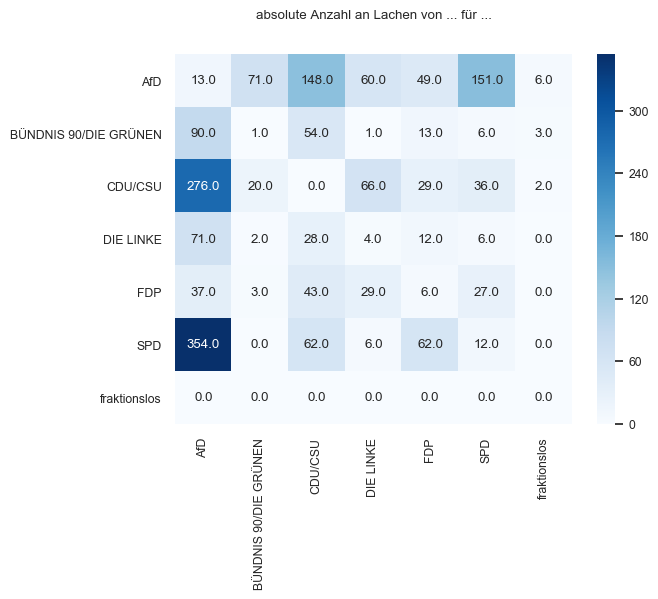
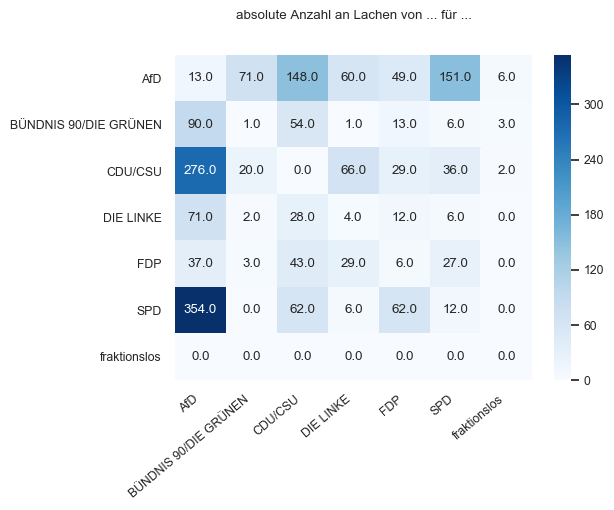
minor changes in visualization

diff --git a/run_program.py b/run_program.py
@@ -42,3 +42,7 @@ if __name__ == "__main__":
                                           'graphics/comments_absolute.png')
         data_visualization.visualize_distribution_self_other(dict_comment_self, 'Kommentare zur eigenen Partei in %',
                                                              'graphics/comments_self.png')
+        data_visualization.create_heatmap(dict_applause_total, 'absolute Anzahl an Beifall',
+                                          'graphics/applause_absolute.png')
+        data_visualization.create_heatmap(dict_applause, 'Verhältnis Beifall zu Parteigröße',
+                                          'graphics/applause_relative.png')

diff --git a/data_visualization.py b/data_visualization.py
@@ -18,6 +18,8 @@ def create_heatmap(dict_parties, label, filename='none'):
     sns.set(font_scale=0.8)
 
     ax = sns.heatmap(df, cmap='Blues', annot=True, fmt='.1f')
+    ax.set_xticklabels(ax.get_xticklabels(), rotation=40, ha="right")
+    plt.tight_layout()
     plt.title(f'{label} von ... für ...\n\n')
 
     if filename != 'none':
